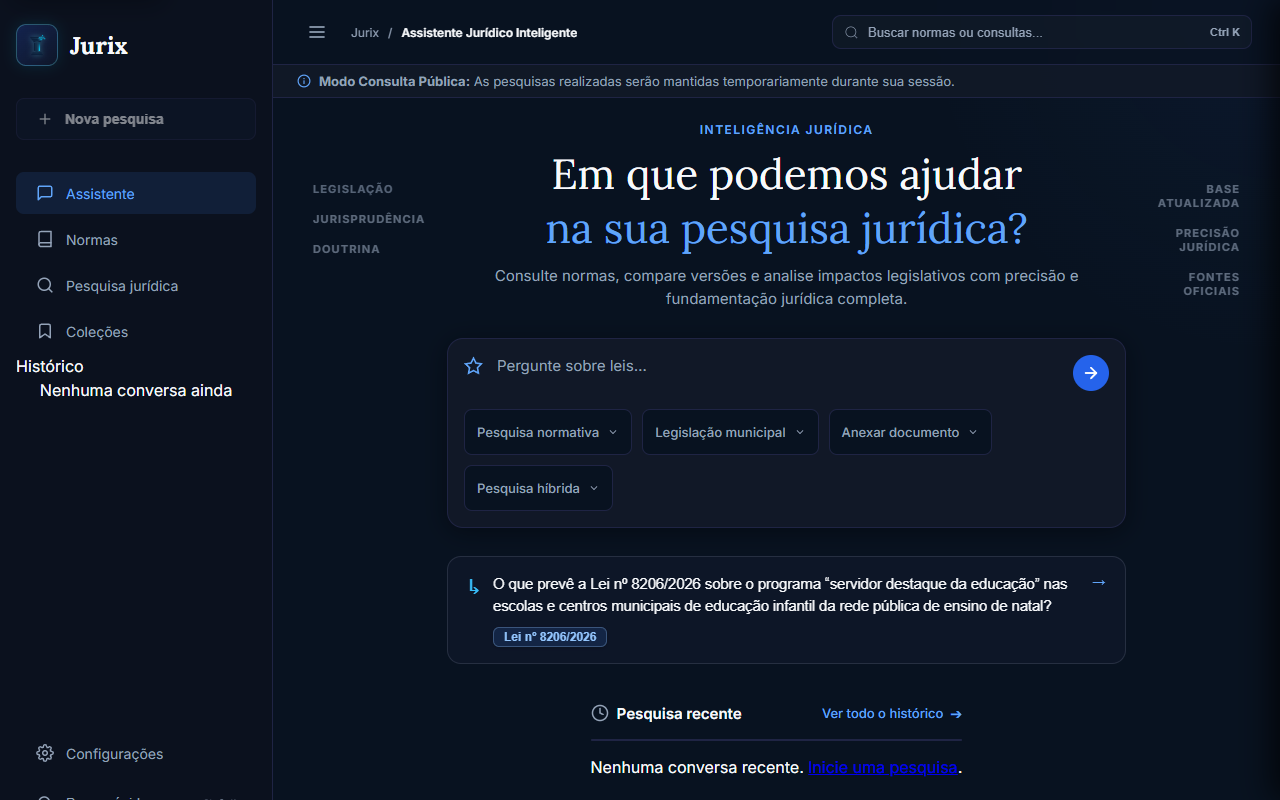
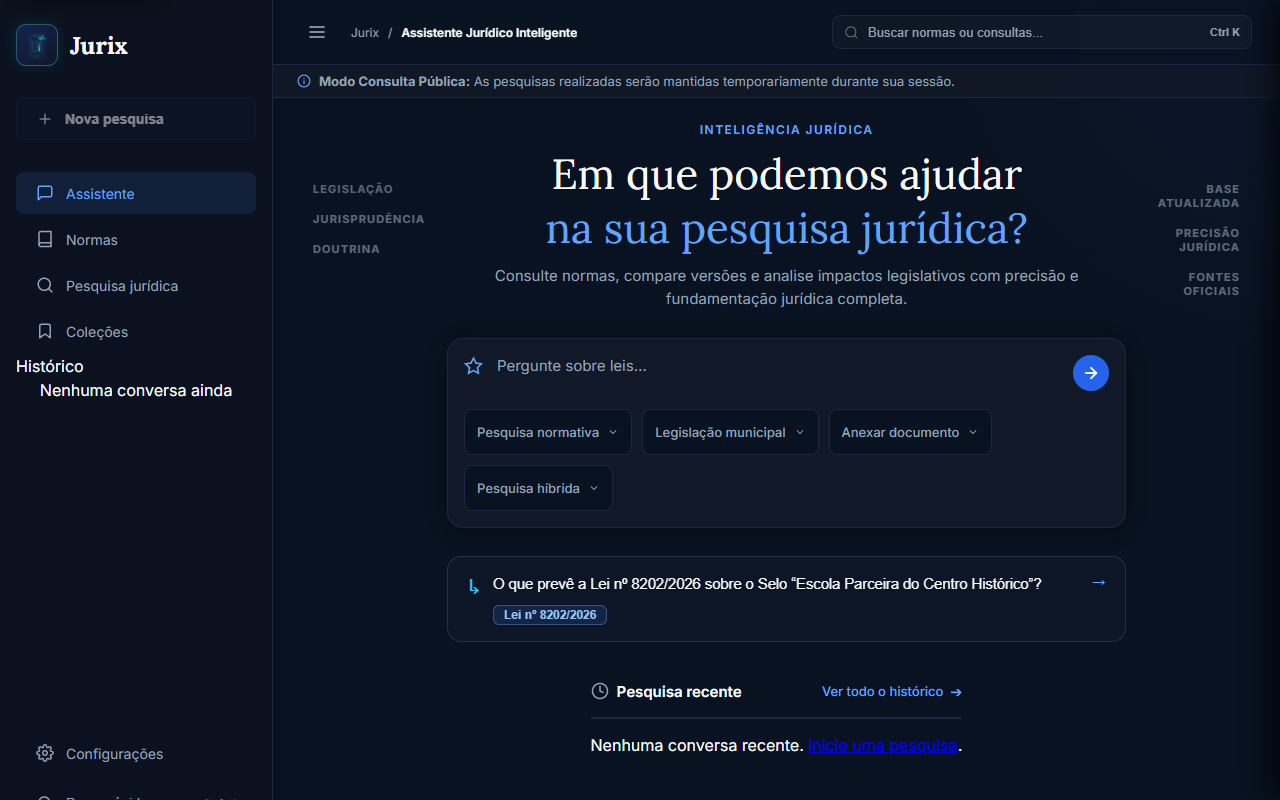
Report blocked preference persistence honestly

Changed region(s): [[0.4688, 0.8438, 0.75, 0.9688], [0.375, 0.7188, 0.8438, 0.8125]]

diff --git a/src/apps/legislation/templates/legislation/workspace/base.html b/src/apps/legislation/templates/legislation/workspace/base.html
@@ -11,7 +11,7 @@
     <link rel="preconnect" href="https://fonts.gstatic.com" crossorigin>
     <link href="https://fonts.googleapis.com/css2?family=Inter:wght@400;500;600;700&family=Lora:ital,wght@0,400;0,600;0,700;1,400&family=JetBrains+Mono:wght@400;500&display=swap" rel="stylesheet">
     <link rel="stylesheet" href="{% static 'css/jurix-figma.css' %}?v=20260929-color-contrast-aa">
-    <link rel="stylesheet" href="{% static 'css/workspace.css' %}?v=20260929-mobile-search">
+    <link rel="stylesheet" href="{% static 'css/workspace.css' %}?v=20260929-settings-warning1">
     <link rel="stylesheet" href="{% static 'css/jurix-components.css' %}">
     {% block extra_css %}{% endblock %}
 </head>
@@ -85,7 +85,7 @@
     </div>
 
     <script src="{% static 'js/config.js' %}"></script>
-    <script src="{% static 'js/workspace.js' %}?v=20260929-mobile-nav-keyboard"></script>
+    <script src="{% static 'js/workspace.js' %}?v=20260929-settings-save-feedback1"></script>
     <script src="{% static 'js/command_palette.js' %}?v=20260929-combobox-a11y"></script>
     <script src="{% static 'js/jurix-anonymous-history.js' %}"></script>
     {% block extra_js %}{% endblock %}

diff --git a/src/apps/core/static/js/workspace.js b/src/apps/core/static/js/workspace.js
@@ -83,12 +83,20 @@
                 theme: String(formData.get('theme') || DEFAULTS.theme),
                 density: String(formData.get('density') || DEFAULTS.density),
             };
+            let saved = true;
             try {
                 localStorage.setItem(SETTINGS_KEY, JSON.stringify(settings));
-            } catch (_) {}
+            } catch (_) {
+                saved = false;
+            }
             applyAppearance(settings);
             const status = form.querySelector('[data-settings-status]');
-            if (status) status.textContent = 'Preferências salvas neste navegador.';
+            if (status) {
+                status.classList.toggle('is-warning', !saved);
+                status.textContent = saved
+                    ? 'Preferências salvas neste navegador.'
+                    : 'Preferências aplicadas, mas não foi possível salvá-las neste navegador.';
+            }
             window.dispatchEvent(new CustomEvent('jurix:preferences-changed', { detail: settings }));
         });
 

diff --git a/src/apps/core/static/css/workspace.css b/src/apps/core/static/css/workspace.css
@@ -71,6 +71,7 @@
 .workspace-button:disabled { opacity: .45; cursor: default; }
 .workspace-button[aria-disabled="true"] { opacity: .72; cursor: not-allowed; pointer-events: none; }
 .workspace-save-status { color: var(--figma-green); font-size: 12px; }
+.workspace-save-status.is-warning { color: var(--figma-amber-light, #fbbf24); }
 .workspace-search-panel { padding: 18px; display: grid; gap: 14px; margin-bottom: 28px; }
 .workspace-search-input input { min-height: 48px; font-size: 15px; }
 .workspace-filter-row { display: grid; grid-template-columns: repeat(3,minmax(0,1fr)); gap: 12px; }

diff --git a/FRONTEND_LOG.md b/FRONTEND_LOG.md
@@ -1410,3 +1410,32 @@ and contrast contracts green. `git diff --check` passed.
 
 Next action: Continue with settings and history interaction states, then
 revisit remaining route-level usability gaps.
+
+## Cycle 33 — 2026-09-29
+
+Area: Honest feedback when saving workspace preferences fails.
+
+Observed problem: If browser storage rejects `localStorage.setItem` (privacy
+settings, disabled storage, or quota), the chosen appearance is applied in the
+current document but the UI still claimed it had been saved. A reload then
+discarded the change without warning.
+
+Changes made: Settings now distinguish durable save success from a current-page
+appearance change that could not be persisted. The latter receives an explicit
+warning style and accurate live-region message. Updated JS/CSS cache keys and
+added a real-Chromium test that forces `QuotaExceededError` at 390px.
+
+Browser validation: On the actual local Django app, `/configuracoes/` loaded
+successfully at 390px and 1280px without horizontal overflow. Changing theme
+and density applied immediately and survived reload. The new failure-path
+browser test confirms the theme still applies but reports the inability to
+save instead of claiming persistence. `/historico/` also loaded successfully.
+
+Tests: Focused storage-failure Chromium test passed. The full frontend suite
+passed with 15 real-Chromium scenarios, 17 structural tests, 15
+streaming/persistence tests, and contrast contracts. The cache-key contract was
+updated to follow the intentional stylesheet version bump; `git diff --check`
+passed.
+
+Next action: Continue testing settings reset and history interactions, then
+inspect the remaining primary routes for concrete usability regressions.
